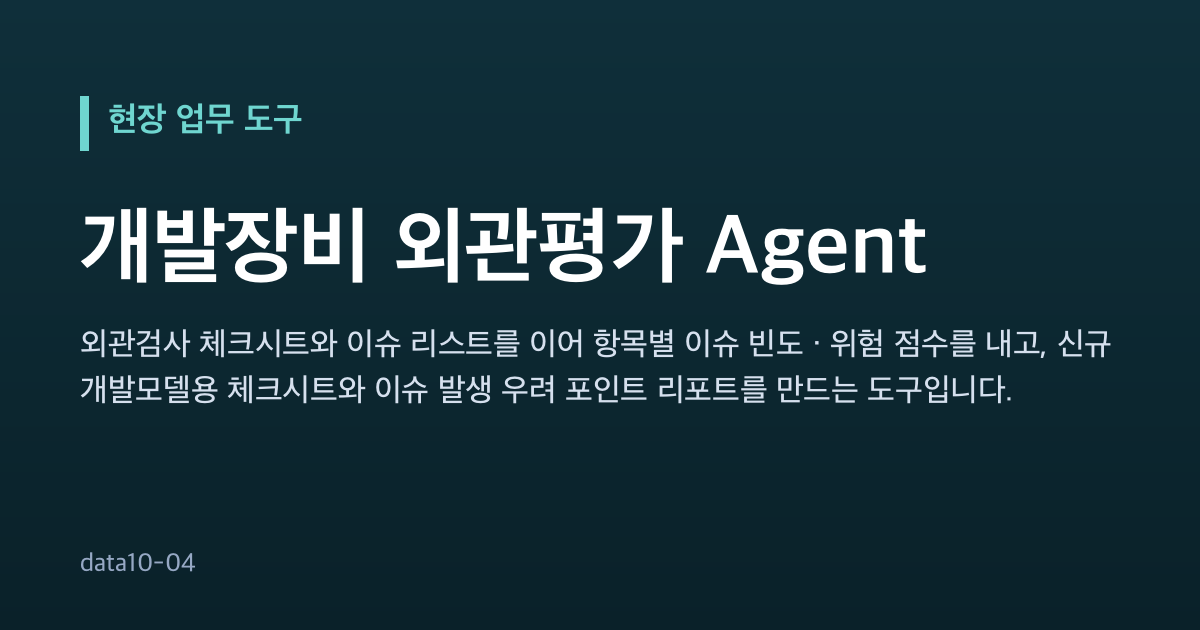
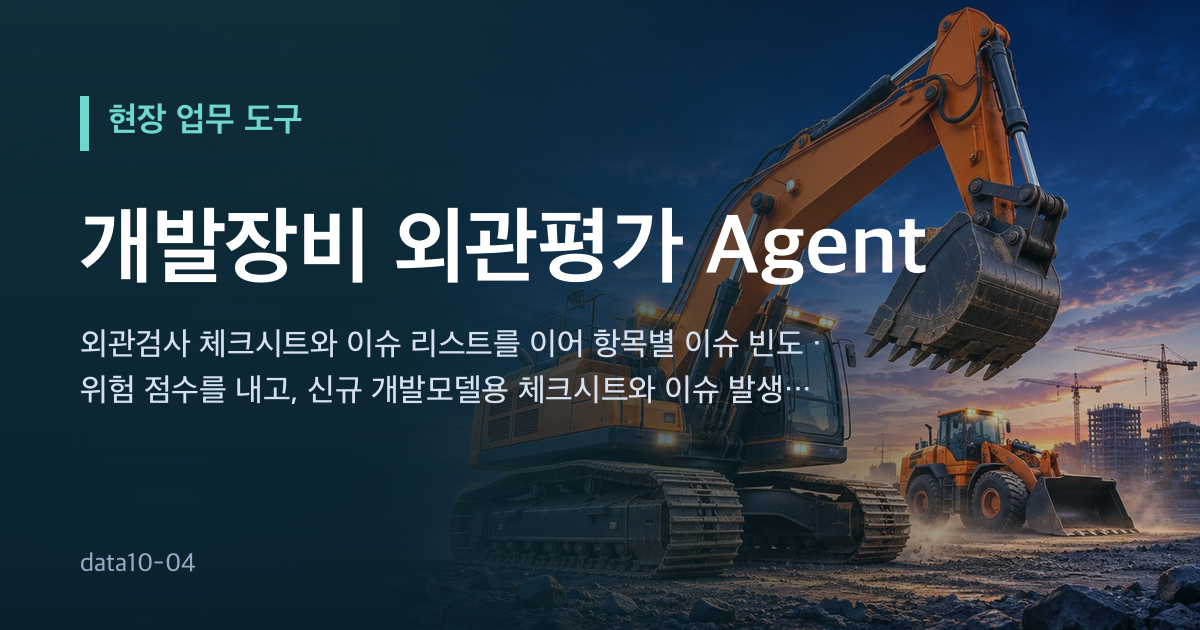
개발 자료 전체 공개 — 개발일지 · 기획서 원문 · 시험 · SQL · 스크립트 · README (수강생 내려받기용)

diff --git a/index.html b/index.html
@@ -12,9 +12,16 @@
   <meta property="og:description" content="외관검사 체크시트와 이슈 리스트를 이어 항목별 이슈 빈도 · 위험 점수를 내고, 신규 개발모델용 체크시트와 이슈 발생 우려 포인트 리포트를 만드는 도구입니다.">
   <meta property="og:url" content="https://data10-04.jobability.co.kr/">
   <meta property="og:image" content="https://data10-04.jobability.co.kr/og-image.png">
+  <meta property="og:image:secure_url" content="https://data10-04.jobability.co.kr/og-image.png">
+  <meta property="og:image:type" content="image/png">
   <meta property="og:image:width" content="1200">
   <meta property="og:image:height" content="630">
+  <meta property="og:image:alt" content="개발장비 외관평가 Agent">
+  <meta property="og:locale" content="ko_KR">
   <meta name="twitter:card" content="summary_large_image">
+  <meta name="twitter:title" content="개발장비 외관평가 Agent">
+  <meta name="twitter:description" content="외관검사 체크시트와 이슈 리스트를 이어 항목별 이슈 빈도 · 위험 점수를 내고, 신규 개발모델용 체크시트와 이슈 발생 우려 포인트 리포트를 만드는 도구입니다.">
+  <meta name="twitter:image" content="https://data10-04.jobability.co.kr/og-image.png">
   <link rel="icon" href="favicon.svg" type="image/svg+xml">
   <!-- /seo-kit -->
   <meta name="description" content="외관검사 체크시트와 이슈 리스트를 이어 항목별 이슈 빈도·최근성·심각도 점수를 내고, 신규 개발모델용 체크시트(중점·일반·생략 후보·신규 항목 후보)와 이슈 발생 우려 포인트 리포트를 만드는 브라우저 도구">
@@ -29,11 +36,11 @@
        v3: location.reload() 대신 질의 붙은 주소로 — reload 가 Fastly 에 남은 옛 판을 다시 받아 멈추던 것(10-21 build-data 강의안).
        탭 전환·포커스로는 옮기지 않는다(입력 유실). ETag 는 Cloudflare 가 지워서 쓸 수 없다. 원본: dreamit-1000/scripts/fresh-guard/guard.html -->
   <script>(function(){try{var L=location,P='_fg',h=window.history,q=L.search;if(/[?&]_fg=/.test(q)&&h&&h.replaceState){q=q.replace(/([?&])_fg=[^&]*&?/,'$1').replace(/[?&]$/,'');h.replaceState(h.state,'',L.pathname+q+L.hash);}var d=Date.parse(document.lastModified),u=L.pathname+L.search,k='__fresh_guard',t=0;if(!d||!window.fetch||!window.sessionStorage)return;var g=function(s,v){return s+(s.indexOf('?')<0?'?':'&')+P+'='+v;};var c=function(){var n=Date.now();if(n-t<15000)return;t=n;fetch(g(u,n),{method:'HEAD',cache:'no-store'}).then(function(r){var lm=r.headers.get('last-modified'),f=lm&&Date.parse(lm);if(!f||f<=d+1000)return;if(sessionStorage.getItem(k)===lm)return;sessionStorage.setItem(k,lm);L.replace(g(L.pathname+L.search,f)+L.hash);})['catch'](function(){});};c();var p=h&&h.pushState;if(p)h.pushState=function(){var x=p.apply(this,arguments);c();return x;};addEventListener('hashchange',c);addEventListener('popstate',c);}catch(e){}})();</script>
-  <link rel="stylesheet" href="css/style.css?v=2026-11-11.7">
+  <link rel="stylesheet" href="css/style.css?v=2026-11-11.8">
   <!-- auth-kit: 로그인 전에는 도구 화면을 감춘다(js/auth.js 가 판정 뒤 푼다) -->
   <script>document.documentElement.classList.add('auth-lock')</script>
-  <link rel="stylesheet" href="css/auth.css?v=2026-11-11.7">
-  <link rel="stylesheet" href="css/board.css?v=2026-11-11.7">
+  <link rel="stylesheet" href="css/auth.css?v=2026-11-11.8">
+  <link rel="stylesheet" href="css/board.css?v=2026-11-11.8">
   <!-- /auth-kit -->
 </head>
 <body>
@@ -66,18 +73,18 @@
   <div id="toast" class="toast" role="status" aria-live="polite" hidden></div>
 
   <!-- 로컬 파일(file://)로 열어도 돌도록 module 이 아닌 일반 스크립트로 불러옵니다 -->
-  <script src="vendor/xlsx.full.min.js?v=2026-11-11.7"></script>
-  <script src="js/logic.js?v=2026-11-11.7"></script>
-  <script src="js/sample-data.js?v=2026-11-11.7"></script>
-  <script src="js/store.js?v=2026-11-11.7"></script>
-  <script src="js/ai-endpoint.js?v=2026-11-11.7"></script>
-  <script src="js/ai-panel.js?v=2026-11-11.7"></script>
-  <script src="js/app.js?v=2026-11-11.7"></script>
+  <script src="vendor/xlsx.full.min.js?v=2026-11-11.8"></script>
+  <script src="js/logic.js?v=2026-11-11.8"></script>
+  <script src="js/sample-data.js?v=2026-11-11.8"></script>
+  <script src="js/store.js?v=2026-11-11.8"></script>
+  <script src="js/ai-endpoint.js?v=2026-11-11.8"></script>
+  <script src="js/ai-panel.js?v=2026-11-11.8"></script>
+  <script src="js/app.js?v=2026-11-11.8"></script>
   <!-- auth-kit: 로그인 · 사용 신청 · 승인(정본 data10-00/kit/auth) -->
-  <script src="vendor/supabase.js?v=2026-11-11.7"></script>
-  <script src="js/auth-config.js?v=2026-11-11.7"></script>
-  <script src="js/board.js?v=2026-11-11.7"></script>
-  <script src="js/auth.js?v=2026-11-11.7"></script>
+  <script src="vendor/supabase.js?v=2026-11-11.8"></script>
+  <script src="js/auth-config.js?v=2026-11-11.8"></script>
+  <script src="js/board.js?v=2026-11-11.8"></script>
+  <script src="js/auth.js?v=2026-11-11.8"></script>
   <!-- /auth-kit -->
 </body>
 </html>

diff --git a/js/auth.js b/js/auth.js
@@ -233,6 +233,12 @@
       box.classList.toggle('hp-sl-light', !!(sl[i] && sl[i].tone === 'light'));   // 밝은 사진이면 글자를 어둡게
     }
     go(0);
+    // slides[].anim(움직이는 그림 gif) — 먼저 가벼운 사진을 보이고, 화면이 뜬 뒤 받아서 바꿔 끼운다(데이터 절약 · 모션 최소화면 건너뜀)
+    var conn = navigator.connection || {};
+    if (!reduce && !conn.saveData) sl.forEach(function (x, k) {
+      if (!x.anim || !track.children[k]) return;
+      setTimeout(function () { var im = new Image(); im.onload = function () { if (document.body.contains(track)) track.children[k].style.backgroundImage = 'url("' + absUrl(x.anim) + '")'; }; im.src = absUrl(x.anim); }, 1500);
+    });
     box.querySelectorAll('[data-sl]').forEach(function (b) {
       b.onclick = function () {
         var v = b.getAttribute('data-sl');

diff --git a/js/app.js b/js/app.js
@@ -5,7 +5,7 @@
   var L = window.ExtLogic, S = window.ExtStore, AIP = window.AIPanel, Sample = window.ExtSample;
   /* 판 맞추기 — 브라우저가 옛 logic.js 와 새 app.js 를 섞어 쓰면(Pages 캐시) 버튼과 결과가 어긋날 수 있어, 섞였으면 계산하지 않고 새로고침을 안내합니다.
      판은 scripts/bump-version.mjs 로 index.html(?v=) · logic.js 와 함께 올립니다. */
-  var APP_VERSION = '2026-11-11.7';
+  var APP_VERSION = '2026-11-11.8';
   if (!L || L.VERSION !== APP_VERSION) {
     var m0 = document.getElementById('main') || document.body;
     m0.innerHTML = '<section class="card" id="versionMismatch"><h1>새 판이 나왔습니다 — 새로고침(Ctrl+F5)해 주세요</h1><p class="alert warn">이 브라우저가 옛 파일과 새 파일을 섞어 불러왔습니다(js/logic.js ' +

diff --git a/js/logic.js b/js/logic.js
@@ -15,7 +15,7 @@
   'use strict';
   /* 판(版) — index.html 의 ?v= · app.js 의 APP_VERSION 과 같아야 합니다(scripts/bump-version.mjs 로 함께 올림).
      브라우저가 옛 logic.js 와 새 app.js 를 섞어 쓰면 app.js 가 이 값을 보고 계산을 멈춥니다. */
-  var VERSION = '2026-11-11.7';
+  var VERSION = '2026-11-11.8';
 
   var SCHEMA_VERSION = 1;
 

diff --git a/docs/평가보고서/data10-04_평가보고서_2026-11-11.md b/docs/평가보고서/data10-04_평가보고서_2026-11-11.md
@@ -2,7 +2,7 @@
 
 - 과제: 개발장비 외관평가 Agent
 - 요청자: 이은학
-- 점검일: 2026-11-11 (라이브 점검 판 2026-11-11.6, 이 보고서와 함께 올리는 판 2026-11-11.7)
+- 점검일: 2026-11-11 (라이브 점검 판 2026-11-11.6, 이 보고서와 함께 올리는 판 2026-11-11.8)
 - 사이트: https://data10-04.jobability.co.kr/
 - 리포지토리: https://github.com/jungaistar/data10-04
 
@@ -34,7 +34,7 @@
 | 첫 화면 구성 | 충족 | 모양 사진 슬라이드 3장 · 기능 6 · 사용 순서 6 · 실제 화면 있음 |
 | 회사 로고(그림) | 받지 못함 | 로고 파일을 받지 못해 글자 또는 표기 없음 |
 | 기획서 페이지 · 실제 화면 그림 | 충족 | plan.html 200 · screen.png 200 |
-| 공유 미리보기 메타 · 아이콘 | 조치함 | 점검 때 og 메타 · 아이콘이 없어 판 2026-11-11.7 에서 넣음 |
+| 공유 미리보기 메타 · 아이콘 | 조치함 | 점검 때 og 메타 · 아이콘이 없어 넣음 — og:title · description · url · image(1200×630, 첫 화면 사진 바탕) · canonical |
 
 ## 3. 기능과 시험
 
@@ -63,7 +63,7 @@
 | Supabase 설정 파일 | 충족 | auth.sql · board.sql · site.sql · verify.sql |
 | Supabase 연결 안내 | 충족 | supabase/README.md (11단계 · 기대하는 값 · 자주 나는 문제) |
 | 내 깃허브로 옮기기 안내 | 충족 | docs/내_깃허브로_옮기기.md |
-| 기획서(워드) · 개발일지 · 변경 이력 | 충족 | 변경 이력 7건 · 커밋 14개 |
+| 기획서(워드) · 개발일지 · 변경 이력 | 충족 | 변경 이력 8건 · 커밋 15개 |
 | 공개 리포지토리(ZIP 내려받기) | 충족 | github.com/jungaistar/data10-04 |
 | 게시판 · 새 글 알림 · 첫 화면 고르기 | 충족 | 과정용 프로젝트에 SQL 적용 완료(표 · 정책 수 확인) |
 
@@ -81,6 +81,7 @@
 
 ## 6. 변경 이력
 
+- 2026-11-11 점검 · 평가보고서 (판 2026-11-11.7)
 - 2026-11-11 요청 반영 (판 2026-11-11.6)
 - 2026-11-11 슬라이드 사진 (판 2026-11-11.5)
 - 2026-11-11 첫 화면 모양 고르기 (판 2026-11-11.3)

diff --git a/CHANGELOG.md b/CHANGELOG.md
@@ -2,6 +2,11 @@
 
 버전마다 기획서 워드 판을 `docs/기획서/` 에 남긴다(옛 판을 지우지 않는다).
 
+## 2026-11-11 최종 (판 2026-11-11.8)
+
+- 공유 미리보기 그림(og-image.png)을 첫 화면 사진 바탕으로, og · twitter 메타 보강
+- 평가보고서 갱신 `docs/평가보고서/`
+
 ## 2026-11-11 점검 · 평가보고서 (판 2026-11-11.7)
 
 - 16개 사이트 점검 결과와 평가보고서 `docs/평가보고서/`(md · docx)
